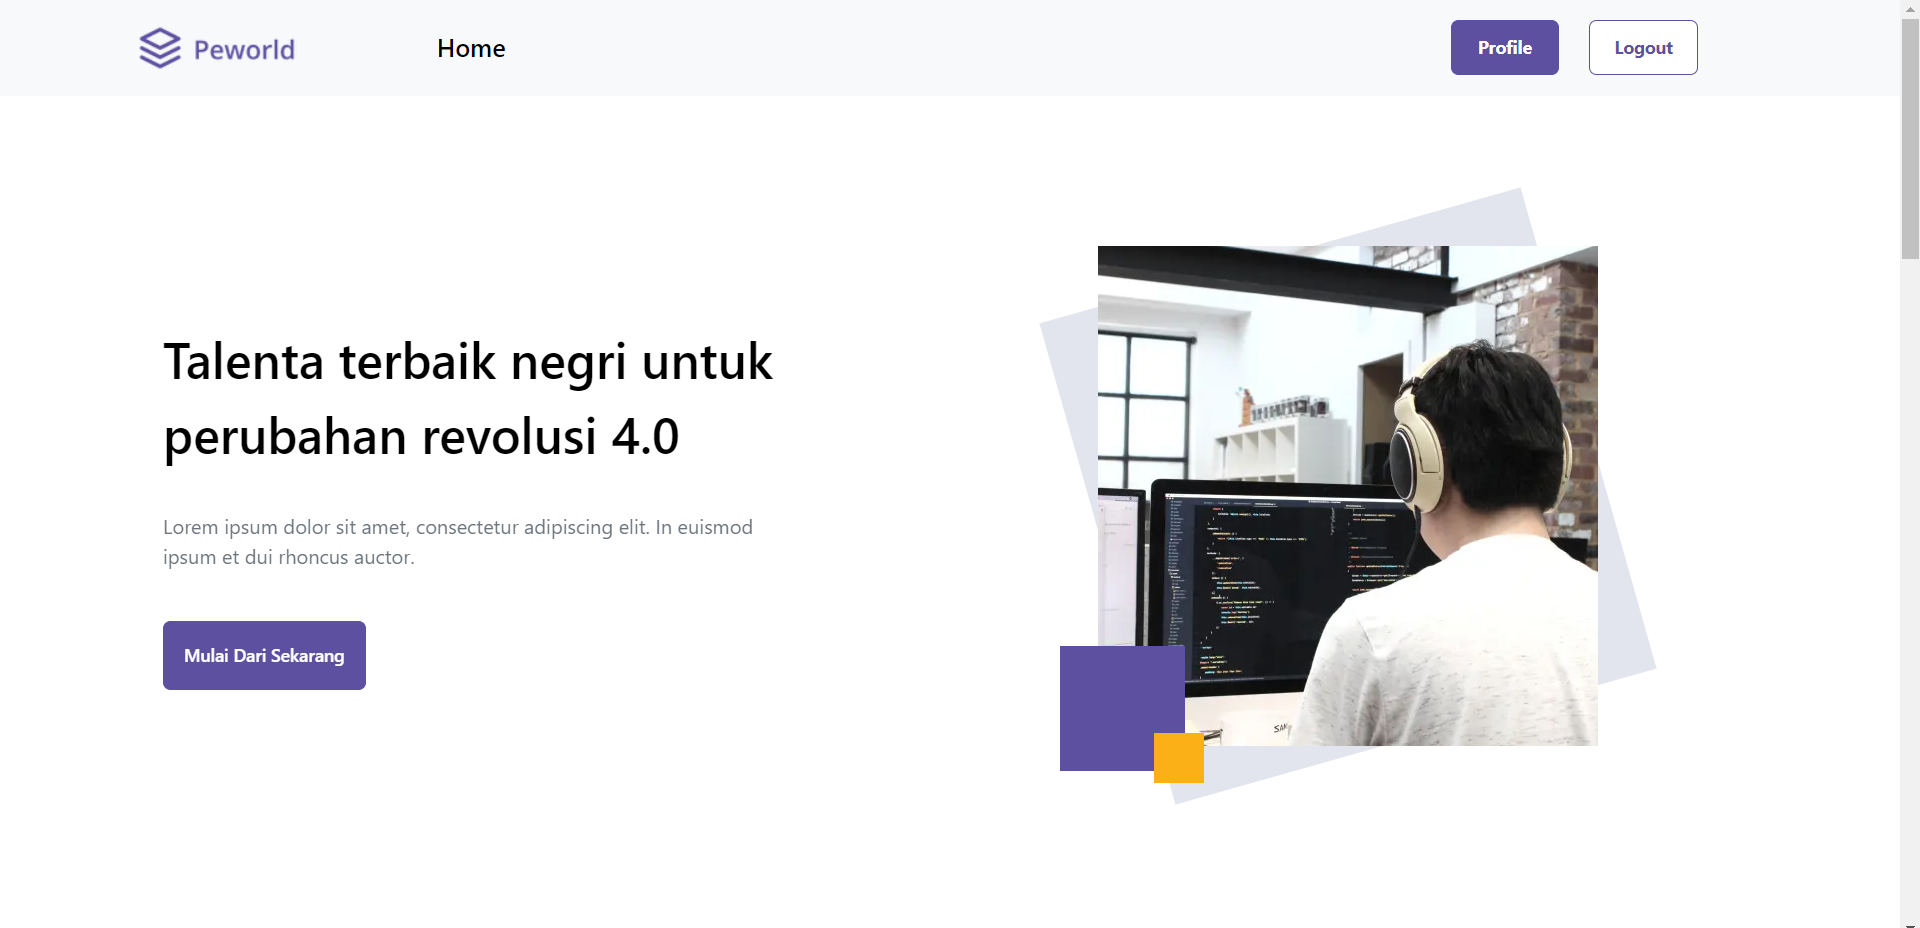
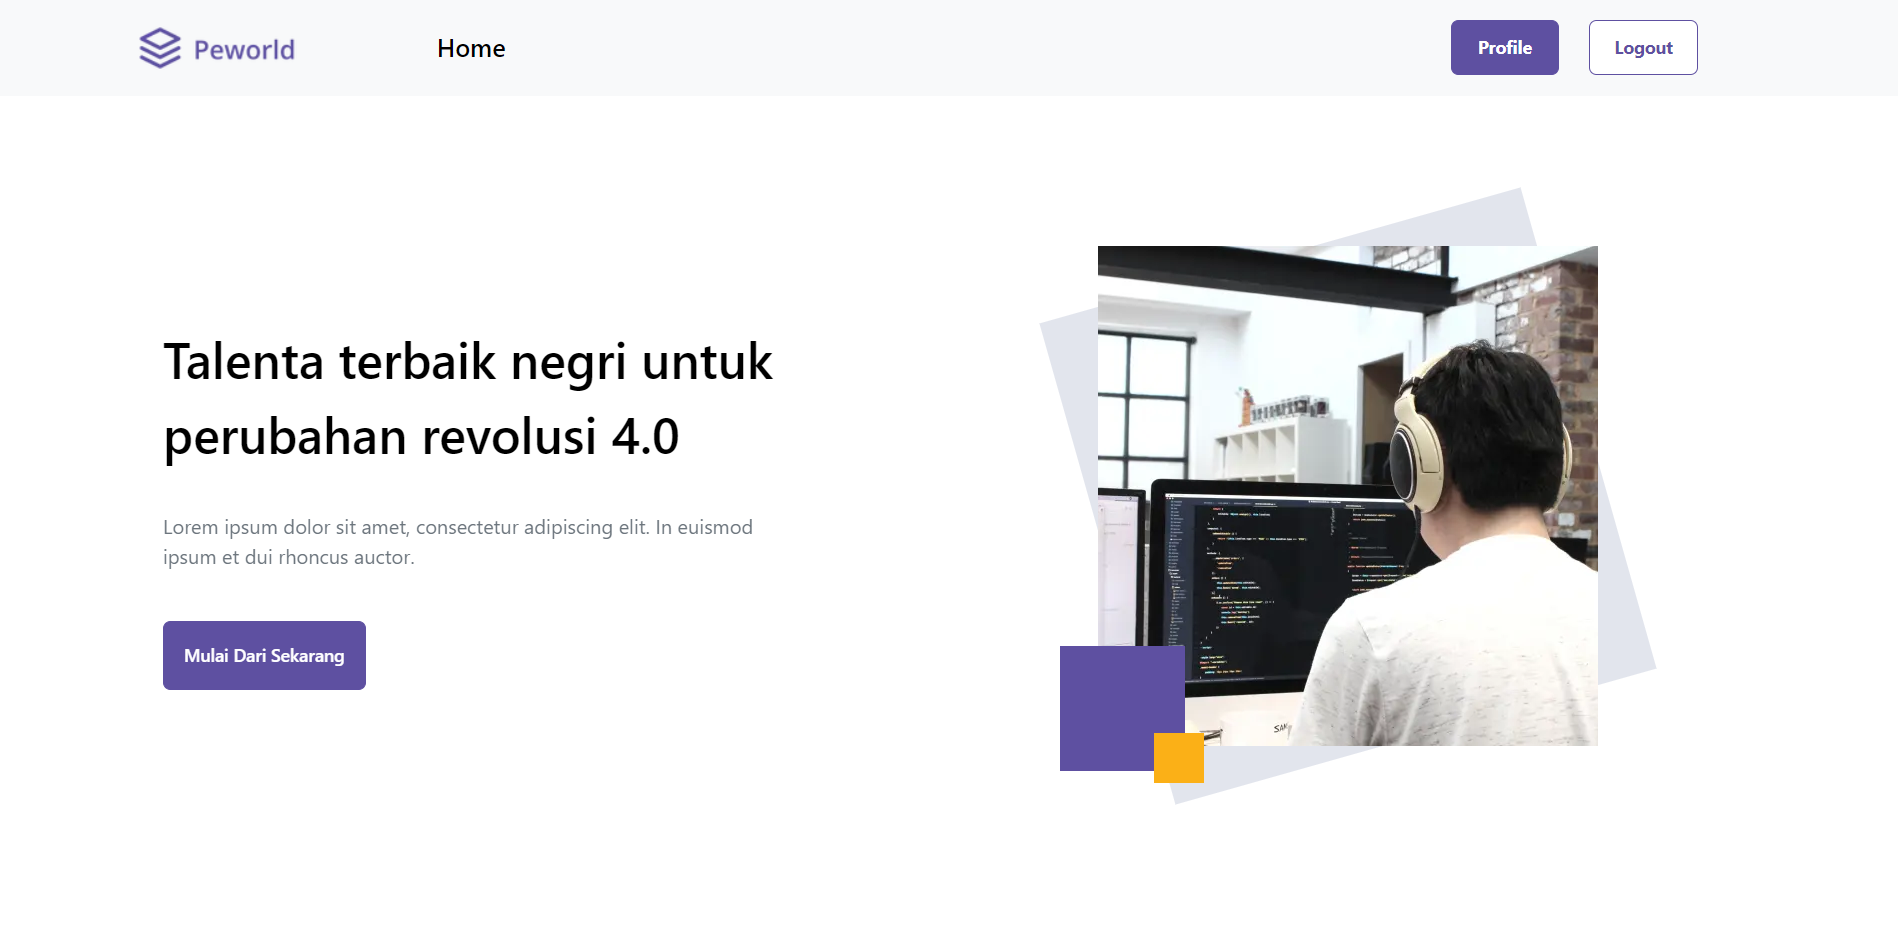
update

diff --git a/src/components/Navbar/NavbarHome.jsx b/src/components/Navbar/NavbarHome.jsx
@@ -1,7 +1,7 @@
 import React from 'react';
 import Image from 'next/image';
 import Logo_Purple from '../../assets/image/Logo_Purple.png';
-import Profile from '../../assets/image/foto.png';
+import Profile from '../../assets/image/logo_perusahaan.png';
 import style from '../../styles/Navbar.module.css';
 import Link from 'next/link';
 

diff --git a/next.config.js b/next.config.js
@@ -11,7 +11,7 @@ const nextConfig = {
     ],
   },
   env: {
-    API_BACKEND: 'https://hirejobbe-production-15d9.up.railway.app',
+    API_BACKEND: 'https://hirejobbe-production-15d9.up.railway.app/',
   },
   eslint: {
     // Warning: This allows production builds to successfully complete even if
